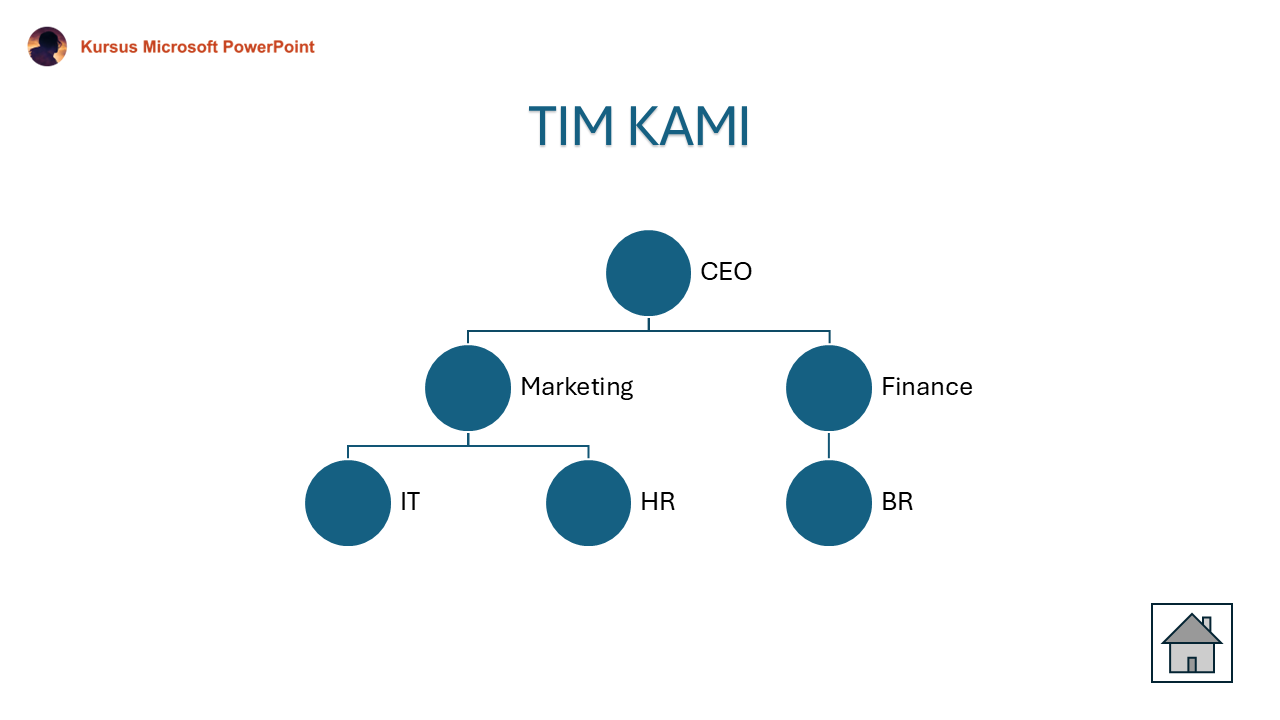
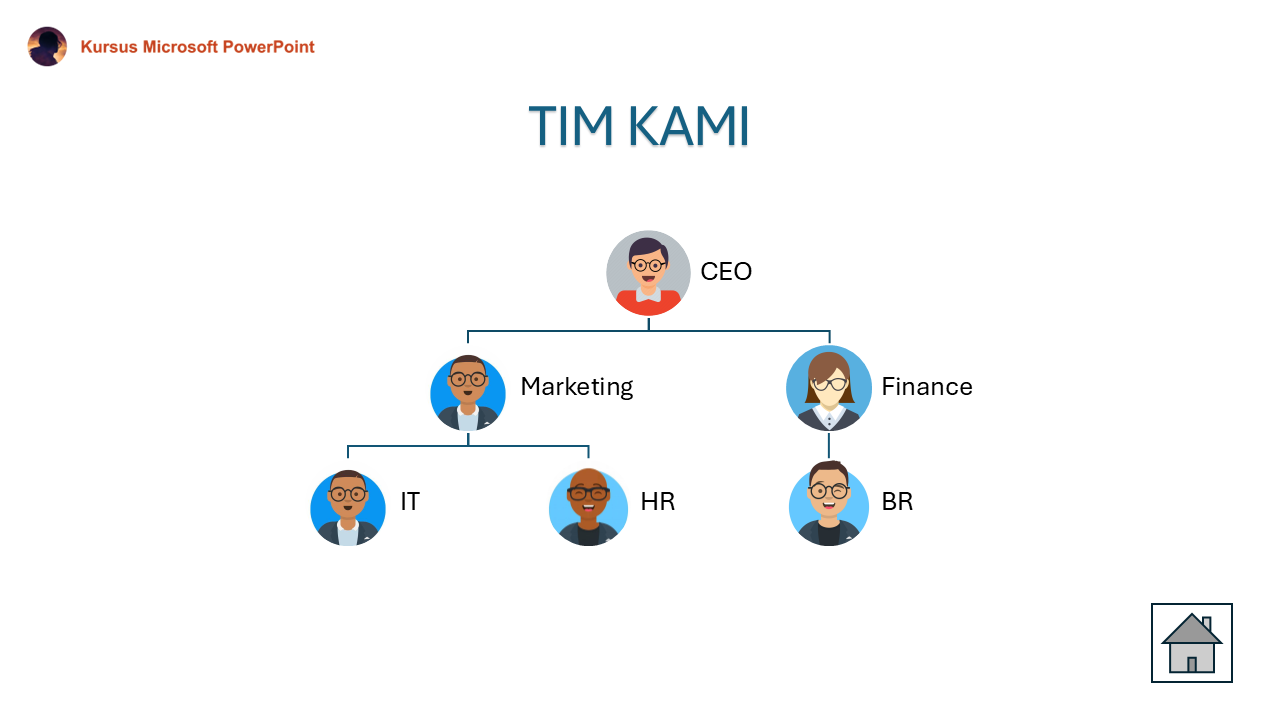
M

diff --git a/materi-powerpoint.html b/materi-powerpoint.html
@@ -3696,8 +3696,7 @@
                                   Slide <strong>Transitions</strong> : <strong>Morph</strong> <br>
                                   Klik Slide KONTRIBUSI PENJUALAN PRODUK.
                                   <div class="my-3">
-                                    <img src="assets/img/transitions-video.png" alt=""
-                                      class="img-fluid shadow rounded">
+                                    <img src="assets/img/transitions-video.png" alt="" class="img-fluid shadow rounded">
                                   </div>
                                 </div>
                                 <strong>Insert</strong> → <strong>Video</strong> → <strong>This Device</strong> → pilih
@@ -3727,20 +3726,38 @@
                                   Slide <strong>Transitions</strong> : <strong>Morph</strong> <br>
                                   Klik Slide TIM KAMI.
                                   <div class="my-3">
-                                    <img src="assets/img/transitions-tim.png" alt=""
-                                      class="img-fluid shadow rounded">
+                                    <img src="assets/img/transitions-tim.png" alt="" class="img-fluid shadow rounded">
                                   </div>
                                 </div>
-                                <code>Insert → SmartArt → Hierarchy</code><br>
+                                <strong>Insert</strong> → <strong>SmartArt</strong> → <strong>Hierarchy</strong><br>
                                 Isi:
-                                <pre class="small text-muted mt-1 mb-0" style="font-family: monospace;">
-                                CEO
-                                ├── Marketing
-                                ├── Finance
-                                ├── IT
-                                └── HR
-                                </pre>
-                                Tambahkan foto jika ingin.<br>
+                                <ul>
+                                  <li>Marketing</li>
+                                  <li>Finance</li>
+                                  <li>IT</li>
+                                  <li>HR</li>
+                                  <li>BR</li>
+                                </ul>
+
+                                Tambahkan foto.<br>
+                                Klik Kolom Chart → From a File
+                                <div class="my-3">
+                                  <img src="assets/img/chart-insert-foto.png" alt="" class="img-fluid shadow rounded">
+                                </div>
+
+                                <strong>Animations:</strong>
+                                <ul class="list-unstyled">
+                                  <li>Judul : <strong>Fade</strong> → <i class="bi bi-stopwatch"></i> Start After
+                                    Previous</li>
+                                  <li>Diagram : <strong>Wipe</strong> → <i class="bi bi-stopwatch"></i> Start After
+                                    Previous
+                                    <div class="my-3">
+                                      <img src="assets/img/Animation-Pane-Tim.png" alt=""
+                                        class="img-fluid shadow rounded">
+                                    </div>
+                                  </li>
+                                </ul>
+
                                 <strong>Animasi:</strong> Animation → <strong>Wipe</strong> → <strong>Effect
                                   Options</strong>
                                 → <strong>One by One</strong> agar setiap bagian muncul satu per satu.
